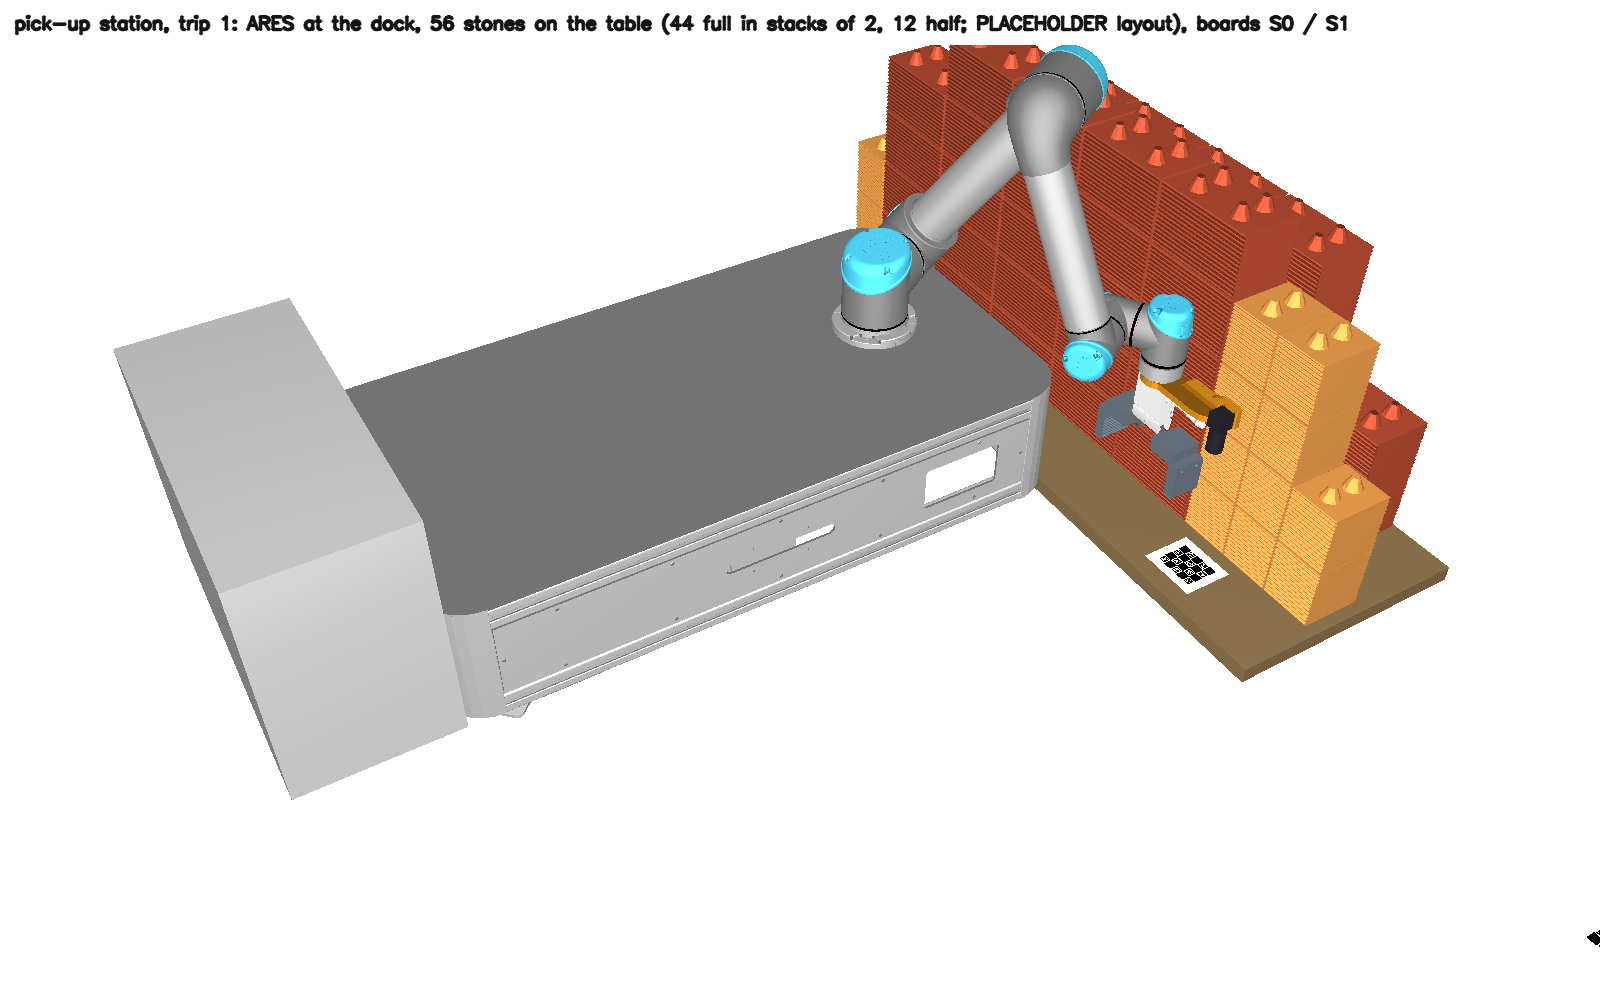
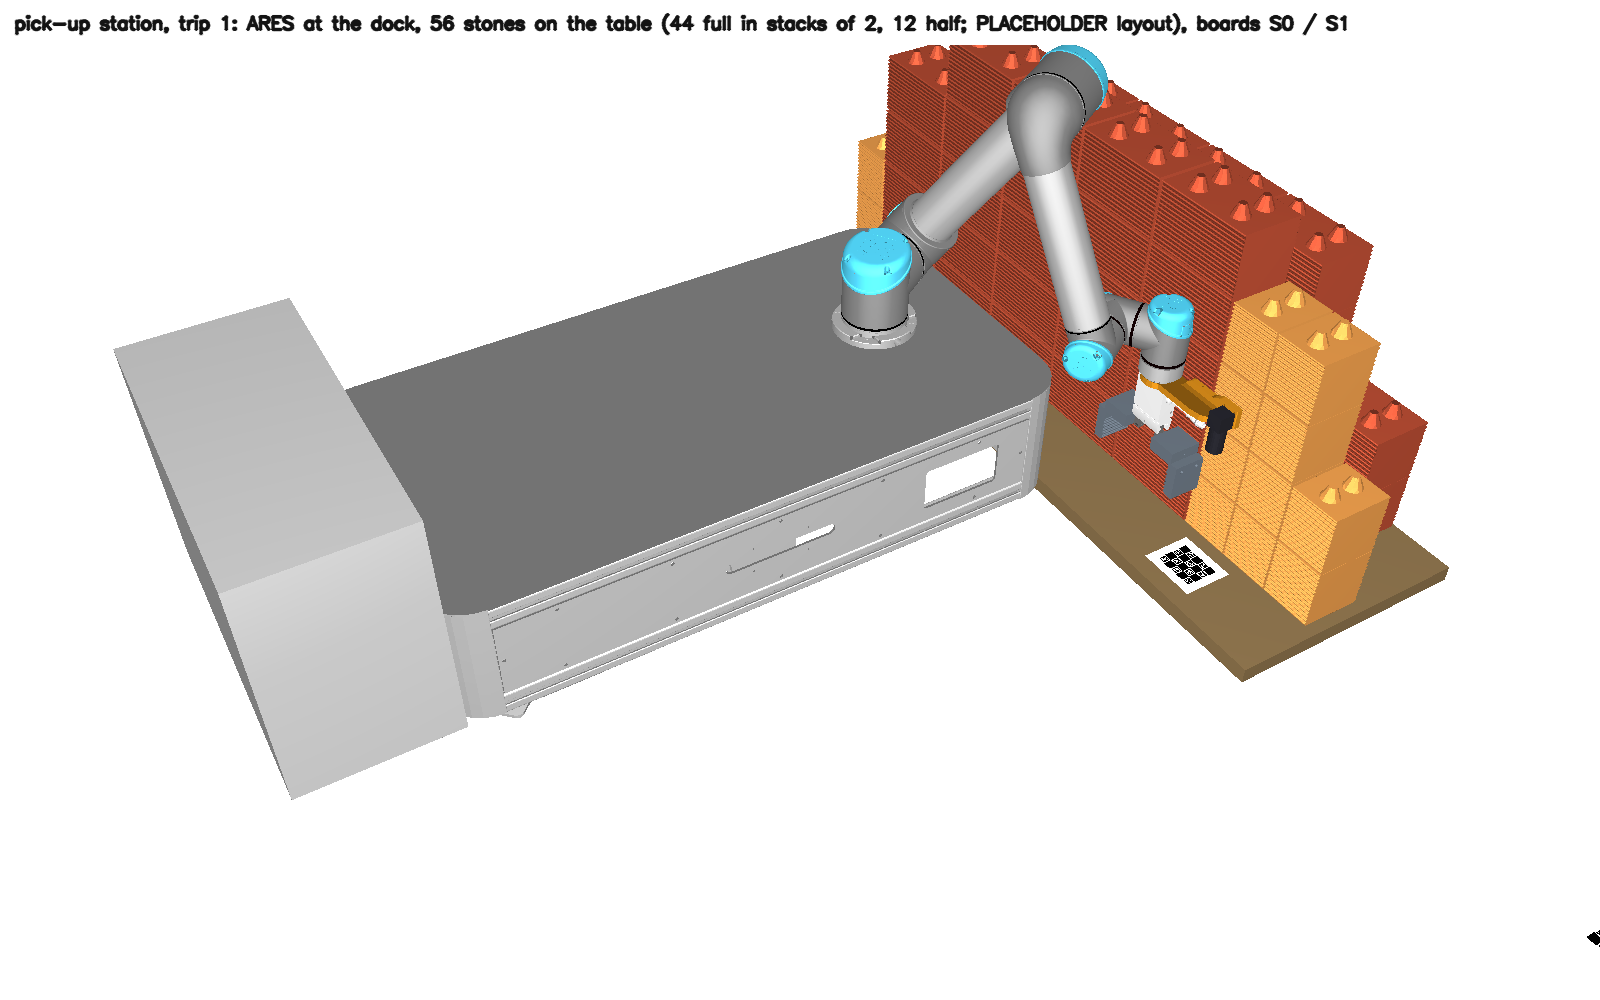
Job, stone list, plan and RoboDK run for the 5 mm MDF guides; final/ refreshed; plan track G
[wall] base_z 5: course tops 125 / 246 / 367 / 488 mm. Guarded world sims seeds 1-3: 67/67 seated, 0 violations,
max 2.58 / 2.20 / 2.06 mm. RoboDK: 67/67 + 53/53 collision-checked, 11 routes clean, 0 top-ups, 15.5 min, video.
final/: stone list, plan, report, pictures (video local only). Plan track G: the software for the full test run.

Changed region(s): [[0.5938, 0.155, 0.8438, 0.62], [0.5312, 0.062, 0.625, 0.217], [0.8438, 0.434, 0.875, 0.465]]

diff --git a/final/l_wall_plan.md b/final/l_wall_plan.md
@@ -1,6 +1,6 @@
 # C wall plan (simulation)
 
-Generated by `py.exe tools/plan_layout.py` from `config/station.toml` (+ `results/reach_table.json`, key `47bf98b2bcc2, 8722aab075b5, 57b12ab24fa9`); drawing `results/l_wall_layout.png`. Pure Python: kinematic checks and a coarse arm-vs-built-wall check of the looks (mauer.armcheck), no occlusion; the RoboDK collision run of the job is `results/l_wall_sim.md`. Values marked PLACEHOLDER / ASSUMPTION are listed at the end - every result here depends on them.
+Generated by `py.exe tools/plan_layout.py` from `config/station.toml` (+ `results/reach_table.json`, key `9fe22f9e92da, 6f36bbd7c776, 385eec34632a`); drawing `results/l_wall_layout.png`. Pure Python: kinematic checks and a coarse arm-vs-built-wall check of the looks (mauer.armcheck), no occlusion; the RoboDK collision run of the job is `results/l_wall_sim.md`. Values marked PLACEHOLDER / ASSUMPTION are listed at the end - every result here depends on them.
 
 ## Request and design
 - Samuel 2026-10-06: a small C - "one length is 2 m, then 1.5 across and 1 m back" - and keep the existing boards (no new ones): A 10 stones (2.0 m), B 7 (1.4 m; 1.52 m over the outer faces of A and C - B = 6 would give 1.32 m and one stop less), C 5 (1.0 m), C parallel to A on the far side from ARES. Before: the L of 2026-10-05 (A 12, B 6).
@@ -23,7 +23,7 @@ Stones per leg and course (full + half; odd courses: half + (n-1) full + half):
 | B | 9 | 8 + 2 | 9 | 8 + 2 | 38 |
 | C | 1 + 2 | 2 | 1 + 2 | 2 | 10 |
 
-Total 67 stones (53 full, 14 half), course top z = 124, 245, 366, 487 mm.
+Total 67 stones (53 full, 14 half), course top z = 125, 246, 367, 488 mm.
 
 ## Stops
 
@@ -115,8 +115,6 @@ tools/run_job.py data/jobs/nominal_C.json --sim --scenario realistic --seed N --
 
 | key | status | value |
 |---|---|---|
-| `[ares] controller_out_mm` | ASSUMPTION | 250.0 |
-| `[ares] controller_top_mm` | ASSUMPTION | 200.0 |
 | `[tool] tcp_z` | ASSUMPTION | 147.0 |
 | `[brick] mass_kg` | ASSUMPTION | 3.0 |
 | `[half_brick] length` | PLACEHOLDER | 100.0 |
@@ -125,9 +123,10 @@ tools/run_job.py data/jobs/nominal_C.json --sim --scenario realistic --seed N --
 | `[half_brick] pin_across` | PLACEHOLDER | 51.428 |
 | `[half_brick] pin_length` | PLACEHOLDER | 23.5 |
 | `[half_brick] mass_kg` | UNKNOWN | 0.0 |
+| `[half_brick] grasp_above_top_mm` | ASSUMPTION | 20.0 |
 | `[wall] side` | UNTAGGED | "front" |
 | `[wall] bond_offset` | UNTAGGED | 0.5 |
-| `[wall] base_z` | ASSUMPTION | 4.0 |
+| `[wall] base_z` | ASSUMPTION | 5.0 |
 | `[wall] u_from` | UNTAGGED | -900.0 |
 | `[wall] u_to` | UNTAGGED | 1800.0 |
 | `[wall] corner_gap_mm` | ASSUMPTION | 1.0 |
@@ -184,7 +183,7 @@ tools/run_job.py data/jobs/nominal_C.json --sim --scenario realistic --seed N --
 | `[pickup_station] table_size` | ASSUMPTION | [1475.0, 480.0] |
 | `[pickup_station] row_y` | ASSUMPTION | 210.0 |
 | `[pickup_station] row2_y` | ASSUMPTION | 410.0 |
-| `[pickup_station] holder_z` | ASSUMPTION | 4.0 |
+| `[pickup_station] holder_z` | ASSUMPTION | 5.0 |
 | `[pickup_station] ares_xyz` | ASSUMPTION | [737.5, -630.0, 0.0] |
 | `[pickup_station] ares_rpy_deg` | ASSUMPTION | [0.0, 0.0, 90.0] |
 | `[pickup_station] slots_xy` | UNTAGGED | [[225.0, 210.0], [430.0, 210.0], [635.0, 210.0], [840.0, ... |
@@ -201,5 +200,5 @@ tools/run_job.py data/jobs/nominal_C.json --sim --scenario realistic --seed N --
 Warnings of the job build:
 
 - magazine slots without a kinematic IK solution (dropped): ['r0y0l3', 'r0y1l3', 'r0y2l3']
-- station slots without IK somewhere within the dock tolerance (+-30 mm, +-1.5 deg) (dropped): ['s00l5', 's05l3', 's07l5', 's08l5', 's10l3', 'h00l3', 'h03l3']
-- station slots without a kinematic IK solution (dropped): ['s05l4', 's05l5', 's06l5', 's09l5', 's10l4', 's10l5', 'h00l4', 'h03l4']
+- station slots without IK somewhere within the dock tolerance (+-30 mm, +-1.5 deg) (dropped): ['s05l3', 's07l5', 's08l5', 's10l3', 'h00l3', 'h03l3']
+- station slots without a kinematic IK solution (dropped): ['s00l5', 's05l4', 's05l5', 's06l5', 's09l5', 's10l4', 's10l5', 'h00l4', 'h03l4']

diff --git a/results/l_wall_plan.md b/results/l_wall_plan.md
@@ -1,6 +1,6 @@
 # C wall plan (simulation)
 
-Generated by `py.exe tools/plan_layout.py` from `config/station.toml` (+ `results/reach_table.json`, key `47bf98b2bcc2, 8722aab075b5, 57b12ab24fa9`); drawing `results/l_wall_layout.png`. Pure Python: kinematic checks and a coarse arm-vs-built-wall check of the looks (mauer.armcheck), no occlusion; the RoboDK collision run of the job is `results/l_wall_sim.md`. Values marked PLACEHOLDER / ASSUMPTION are listed at the end - every result here depends on them.
+Generated by `py.exe tools/plan_layout.py` from `config/station.toml` (+ `results/reach_table.json`, key `9fe22f9e92da, 6f36bbd7c776, 385eec34632a`); drawing `results/l_wall_layout.png`. Pure Python: kinematic checks and a coarse arm-vs-built-wall check of the looks (mauer.armcheck), no occlusion; the RoboDK collision run of the job is `results/l_wall_sim.md`. Values marked PLACEHOLDER / ASSUMPTION are listed at the end - every result here depends on them.
 
 ## Request and design
 - Samuel 2026-10-06: a small C - "one length is 2 m, then 1.5 across and 1 m back" - and keep the existing boards (no new ones): A 10 stones (2.0 m), B 7 (1.4 m; 1.52 m over the outer faces of A and C - B = 6 would give 1.32 m and one stop less), C 5 (1.0 m), C parallel to A on the far side from ARES. Before: the L of 2026-10-05 (A 12, B 6).
@@ -23,7 +23,7 @@ Stones per leg and course (full + half; odd courses: half + (n-1) full + half):
 | B | 9 | 8 + 2 | 9 | 8 + 2 | 38 |
 | C | 1 + 2 | 2 | 1 + 2 | 2 | 10 |
 
-Total 67 stones (53 full, 14 half), course top z = 124, 245, 366, 487 mm.
+Total 67 stones (53 full, 14 half), course top z = 125, 246, 367, 488 mm.
 
 ## Stops
 
@@ -115,8 +115,6 @@ tools/run_job.py data/jobs/nominal_C.json --sim --scenario realistic --seed N --
 
 | key | status | value |
 |---|---|---|
-| `[ares] controller_out_mm` | ASSUMPTION | 250.0 |
-| `[ares] controller_top_mm` | ASSUMPTION | 200.0 |
 | `[tool] tcp_z` | ASSUMPTION | 147.0 |
 | `[brick] mass_kg` | ASSUMPTION | 3.0 |
 | `[half_brick] length` | PLACEHOLDER | 100.0 |
@@ -125,9 +123,10 @@ tools/run_job.py data/jobs/nominal_C.json --sim --scenario realistic --seed N --
 | `[half_brick] pin_across` | PLACEHOLDER | 51.428 |
 | `[half_brick] pin_length` | PLACEHOLDER | 23.5 |
 | `[half_brick] mass_kg` | UNKNOWN | 0.0 |
+| `[half_brick] grasp_above_top_mm` | ASSUMPTION | 20.0 |
 | `[wall] side` | UNTAGGED | "front" |
 | `[wall] bond_offset` | UNTAGGED | 0.5 |
-| `[wall] base_z` | ASSUMPTION | 4.0 |
+| `[wall] base_z` | ASSUMPTION | 5.0 |
 | `[wall] u_from` | UNTAGGED | -900.0 |
 | `[wall] u_to` | UNTAGGED | 1800.0 |
 | `[wall] corner_gap_mm` | ASSUMPTION | 1.0 |
@@ -184,7 +183,7 @@ tools/run_job.py data/jobs/nominal_C.json --sim --scenario realistic --seed N --
 | `[pickup_station] table_size` | ASSUMPTION | [1475.0, 480.0] |
 | `[pickup_station] row_y` | ASSUMPTION | 210.0 |
 | `[pickup_station] row2_y` | ASSUMPTION | 410.0 |
-| `[pickup_station] holder_z` | ASSUMPTION | 4.0 |
+| `[pickup_station] holder_z` | ASSUMPTION | 5.0 |
 | `[pickup_station] ares_xyz` | ASSUMPTION | [737.5, -630.0, 0.0] |
 | `[pickup_station] ares_rpy_deg` | ASSUMPTION | [0.0, 0.0, 90.0] |
 | `[pickup_station] slots_xy` | UNTAGGED | [[225.0, 210.0], [430.0, 210.0], [635.0, 210.0], [840.0, ... |
@@ -201,5 +200,5 @@ tools/run_job.py data/jobs/nominal_C.json --sim --scenario realistic --seed N --
 Warnings of the job build:
 
 - magazine slots without a kinematic IK solution (dropped): ['r0y0l3', 'r0y1l3', 'r0y2l3']
-- station slots without IK somewhere within the dock tolerance (+-30 mm, +-1.5 deg) (dropped): ['s00l5', 's05l3', 's07l5', 's08l5', 's10l3', 'h00l3', 'h03l3']
-- station slots without a kinematic IK solution (dropped): ['s05l4', 's05l5', 's06l5', 's09l5', 's10l4', 's10l5', 'h00l4', 'h03l4']
+- station slots without IK somewhere within the dock tolerance (+-30 mm, +-1.5 deg) (dropped): ['s05l3', 's07l5', 's08l5', 's10l3', 'h00l3', 'h03l3']
+- station slots without a kinematic IK solution (dropped): ['s00l5', 's05l4', 's05l5', 's06l5', 's09l5', 's10l4', 's10l5', 'h00l4', 'h03l4']

diff --git a/final/l_wall_sim.md b/final/l_wall_sim.md
@@ -1,6 +1,6 @@
 # C wall - RoboDK collision simulation
 
-Generated by `py.exe robodk/simulate.py --animate --video l_wall_sim.mp4` (2026-10-09 14:46, run time 15.9 min, own RoboDK instance 6.0.0.26652, OpenCV 4.14.0). Station saved as `robodk/ARES_UR5_Mauer_L.rdk` (not versioned). **Simulation results: they depend on the PLACEHOLDER / ASSUMPTION inputs listed below.**
+Generated by `py.exe robodk/simulate.py --animate --video l_wall_sim.mp4` (2026-10-14 12:42, run time 15.5 min, own RoboDK instance 6.0.0.26652, OpenCV 4.14.0). Station saved as `robodk/ARES_UR5_Mauer_L.rdk` (not versioned). **Simulation results: they depend on the PLACEHOLDER / ASSUMPTION inputs listed below.**
 
 ## Summary
 
@@ -14,7 +14,7 @@ Generated by `py.exe robodk/simulate.py --animate --video l_wall_sim.mp4` (2026-
 
 ## Inputs
 
-- Job: `tools/make_job.py` build_nominal (config + `robodk/wallplan.py` plan_legs + `results/reach_table.json` key `47bf98b2bcc2, 8722aab075b5, 57b12ab24fa9`), 4 stops, 67 stones (14 half), magazine 18 slots, 4 reloads; plan = `results/l_wall_plan.md`.
+- Job: `tools/make_job.py` build_nominal (config + `robodk/wallplan.py` plan_legs + `results/reach_table.json` key `9fe22f9e92da, 6f36bbd7c776, 385eec34632a`), 4 stops, 67 stones (14 half), magazine 18 slots, 4 reloads; plan = `results/l_wall_plan.md`.
 - Pick-up station (`[pickup_station]`, on the floor): 56 usable holders - 44 full stones in stacks of up to 5, 12 half stones; dock (-1700.0, 840.0) mm, 90.00 deg (wall frame), ARES front 70 mm from the station area (floor); boards S0, S1 in their windows on the floor. The station starts full; the operator tops it up before a trip when it would bring fewer stones than a full one (`mauer.job.reload_short`, as in the sequencer).
 - Leg A: 5 stones in course 0, frame (0, 0) mm, 0 deg in the wall frame; built on ARES's right side at 580 mm.
 - Leg B: 9 stones in course 0, frame (1063, -60) mm, 90 deg in the wall frame; built on ARES's front side at 840 mm.
@@ -39,7 +39,7 @@ Depends on (non-CONFIRMED config values, from the job):
 | `[half_brick] grasp_above_top_mm` | ASSUMPTION | 20.0 |
 | `[wall] side` | UNTAGGED | "front" |
 | `[wall] bond_offset` | UNTAGGED | 0.5 |
-| `[wall] base_z` | ASSUMPTION | 4.0 |
+| `[wall] base_z` | ASSUMPTION | 5.0 |
 | `[wall] u_from` | UNTAGGED | -900.0 |
 | `[wall] u_to` | UNTAGGED | 1800.0 |
 | `[wall] corner_gap_mm` | ASSUMPTION | 1.0 |
@@ -96,7 +96,7 @@ Depends on (non-CONFIRMED config values, from the job):
 | `[pickup_station] table_size` | ASSUMPTION | [1475.0, 480.0] |
 | `[pickup_station] row_y` | ASSUMPTION | 210.0 |
 | `[pickup_station] row2_y` | ASSUMPTION | 410.0 |
-| `[pickup_station] holder_z` | ASSUMPTION | 4.0 |
+| `[pickup_station] holder_z` | ASSUMPTION | 5.0 |
 | `[pickup_station] ares_xyz` | ASSUMPTION | [737.5, -630.0, 0.0] |
 | `[pickup_station] ares_rpy_deg` | ASSUMPTION | [0.0, 0.0, 90.0] |
 | `[pickup_station] slots_xy` | UNTAGGED | [[225.0, 210.0], [430.0, 210.0], [635.0, 210.0], [840.0, 210.0], [1045.0, 210.0], [225.0, 410.0], [430.0, 410.0], [635.0, 410.0], [840.0, 410.0], [1045.0, 410.0], [1250.0, 410.0]] |
@@ -128,7 +128,7 @@ Depends on (non-CONFIRMED config values, from the job):
 
 No failures: every stone was picked from its planned magazine slot and placed with a collision-checked motion.
 
-Collision tests: 2105 (510 poses / moves refused by the tool-vs-arm model, mauer.armcheck.self_clearance >= 15 mm); motion planning + execution 10.3 min.
+Collision tests: 2063 (508 poses / moves refused by the tool-vs-arm model, mauer.armcheck.self_clearance >= 15 mm); motion planning + execution 10.1 min.
 
 ## Station trips (ARES at the dock, collision-checked station -> magazine moves)
 

diff --git a/results/l_wall_sim.md b/results/l_wall_sim.md
@@ -1,6 +1,6 @@
 # C wall - RoboDK collision simulation
 
-Generated by `py.exe robodk/simulate.py --animate --video l_wall_sim.mp4` (2026-10-09 14:46, run time 15.9 min, own RoboDK instance 6.0.0.26652, OpenCV 4.14.0). Station saved as `robodk/ARES_UR5_Mauer_L.rdk` (not versioned). **Simulation results: they depend on the PLACEHOLDER / ASSUMPTION inputs listed below.**
+Generated by `py.exe robodk/simulate.py --animate --video l_wall_sim.mp4` (2026-10-14 12:42, run time 15.5 min, own RoboDK instance 6.0.0.26652, OpenCV 4.14.0). Station saved as `robodk/ARES_UR5_Mauer_L.rdk` (not versioned). **Simulation results: they depend on the PLACEHOLDER / ASSUMPTION inputs listed below.**
 
 ## Summary
 
@@ -14,7 +14,7 @@ Generated by `py.exe robodk/simulate.py --animate --video l_wall_sim.mp4` (2026-
 
 ## Inputs
 
-- Job: `tools/make_job.py` build_nominal (config + `robodk/wallplan.py` plan_legs + `results/reach_table.json` key `47bf98b2bcc2, 8722aab075b5, 57b12ab24fa9`), 4 stops, 67 stones (14 half), magazine 18 slots, 4 reloads; plan = `results/l_wall_plan.md`.
+- Job: `tools/make_job.py` build_nominal (config + `robodk/wallplan.py` plan_legs + `results/reach_table.json` key `9fe22f9e92da, 6f36bbd7c776, 385eec34632a`), 4 stops, 67 stones (14 half), magazine 18 slots, 4 reloads; plan = `results/l_wall_plan.md`.
 - Pick-up station (`[pickup_station]`, on the floor): 56 usable holders - 44 full stones in stacks of up to 5, 12 half stones; dock (-1700.0, 840.0) mm, 90.00 deg (wall frame), ARES front 70 mm from the station area (floor); boards S0, S1 in their windows on the floor. The station starts full; the operator tops it up before a trip when it would bring fewer stones than a full one (`mauer.job.reload_short`, as in the sequencer).
 - Leg A: 5 stones in course 0, frame (0, 0) mm, 0 deg in the wall frame; built on ARES's right side at 580 mm.
 - Leg B: 9 stones in course 0, frame (1063, -60) mm, 90 deg in the wall frame; built on ARES's front side at 840 mm.
@@ -39,7 +39,7 @@ Depends on (non-CONFIRMED config values, from the job):
 | `[half_brick] grasp_above_top_mm` | ASSUMPTION | 20.0 |
 | `[wall] side` | UNTAGGED | "front" |
 | `[wall] bond_offset` | UNTAGGED | 0.5 |
-| `[wall] base_z` | ASSUMPTION | 4.0 |
+| `[wall] base_z` | ASSUMPTION | 5.0 |
 | `[wall] u_from` | UNTAGGED | -900.0 |
 | `[wall] u_to` | UNTAGGED | 1800.0 |
 | `[wall] corner_gap_mm` | ASSUMPTION | 1.0 |
@@ -96,7 +96,7 @@ Depends on (non-CONFIRMED config values, from the job):
 | `[pickup_station] table_size` | ASSUMPTION | [1475.0, 480.0] |
 | `[pickup_station] row_y` | ASSUMPTION | 210.0 |
 | `[pickup_station] row2_y` | ASSUMPTION | 410.0 |
-| `[pickup_station] holder_z` | ASSUMPTION | 4.0 |
+| `[pickup_station] holder_z` | ASSUMPTION | 5.0 |
 | `[pickup_station] ares_xyz` | ASSUMPTION | [737.5, -630.0, 0.0] |
 | `[pickup_station] ares_rpy_deg` | ASSUMPTION | [0.0, 0.0, 90.0] |
 | `[pickup_station] slots_xy` | UNTAGGED | [[225.0, 210.0], [430.0, 210.0], [635.0, 210.0], [840.0, 210.0], [1045.0, 210.0], [225.0, 410.0], [430.0, 410.0], [635.0, 410.0], [840.0, 410.0], [1045.0, 410.0], [1250.0, 410.0]] |
@@ -128,7 +128,7 @@ Depends on (non-CONFIRMED config values, from the job):
 
 No failures: every stone was picked from its planned magazine slot and placed with a collision-checked motion.
 
-Collision tests: 2105 (510 poses / moves refused by the tool-vs-arm model, mauer.armcheck.self_clearance >= 15 mm); motion planning + execution 10.3 min.
+Collision tests: 2063 (508 poses / moves refused by the tool-vs-arm model, mauer.armcheck.self_clearance >= 15 mm); motion planning + execution 10.1 min.
 
 ## Station trips (ARES at the dock, collision-checked station -> magazine moves)
 

diff --git a/docs/PLAN_2026-10-07_realtest.md b/docs/PLAN_2026-10-07_realtest.md
@@ -186,3 +186,28 @@ NOT merged while the real test runs in main.
       [deck] / [magtest] changes; results/l_wall_sim.md), rerun `py.exe robodk/simulate.py --animate` IN MAIN for the
       RoboDK stamp (the worktree's stamp has no git commit: Windows git cannot follow the WSL worktree path), then
       the guarded sims; the 7 stale tests of the old main C (wf_05321a78-cff) are still red
+
+
+## Track G (Samuel 2026-10-14): software for the full test run (wall stones, board measurement, ARES moves)
+
+Samuel: "erledige die Software parts" of the readiness check (preflight_real on the C job: ARES moves blocked by
+`frame_x_points_to = "rear"`, ADS 48898, red route tests, station2 merge / job for 5 mm MDF). Done in `station2`
+(the merge into main was refused by the permission check - Samuel merges after looking at it).
+- [x] G1 ARES moves with the UR at the vehicle rear: `mauer.backends.AdsAres(ads, rear=config.ares_rear(cfg))` sends a
+      body-frame translation (dx, dy) as (-dx, -dy) to the PLC, rotations unchanged, and returns the outcome in this
+      repo's frame (odometry via `mauer.ares.ads.odom_in_ares_frame`: (x, y, theta) -> (-x, -y, theta)); HMI live pose
+      and Apply odometry compose the odometry the same way (`hmi.core.sources.compose_odometry(..., rear)`); the step
+      confirmation names the vehicle direction (`vehicle_words`); preflight_real no longer refuses "rear", only an
+      unknown value (tests/test_ares_frame.py)
+- [x] G2 ADS: `AresAds` skipped the connection on Windows when a direct TCP connect to 192.168.1.10:48898 failed -
+      but on Windows pyads goes through the local TwinCAT router (TcAdsDll, the route of MA amr_hmi SETUP.md 4), like
+      amr_hmi, which never probes and drove ARES on 2026-10-09. The pre-check now runs only where pyads talks to the
+      PLC directly (not on Windows; `[ares_ads] tcp_probe` overrides). NOT verified on ARES yet
+- [x] G3 stale tests of the old layouts: route leg lists (two-row station: 5 + 6 legs), last leg change A -> C (built
+      B -> A -> C), no station top-up for the straight job (56 holders), legs [5, 9, 5]
+- [x] G4 job / stone list / plan for the 5 mm MDF guides ([wall] base_z 5: course tops 125 / 246 / 367 / 488 mm);
+      guarded world sims (SimWorld guard=True, realistic, camera loop) seeds 1-3: 67/67 seated, 0 violations, max
+      2.58 / 2.20 / 2.06 mm, 50 / 52 / 51 ARES moves, 4 station trips each
+      RoboDK (`simulate.py --animate --video`, 15.5 min): 67/67 + 53/53 collision-checked, 11 routes clean, 0 top-ups;
+      final/ refreshed (stone list, plan, report, pictures, video). The RoboDK stamp of the worktree has no git commit:
+      after `git merge station2` in main rerun `py.exe robodk/simulate.py --animate` there (preflight_real asks for it)

diff --git a/final/README.md b/final/README.md
@@ -61,8 +61,9 @@ Layouts, und das Layout selbst hat sich seitdem nicht geändert.
 
 ## Geprüft
 
-- RoboDK (`robodk/simulate.py --animate --video`, mit seitlichem Setzen und Halbstein-Griff): 67/67 Steine und 53/53
-  Umlagerungen Station → Magazin mit Kollisionsprüfung, 11 ARES-Fahrten ohne Kollision, 0 Mal Nachlegen.
+- RoboDK (`robodk/simulate.py --animate --video`, mit seitlichem Setzen und Halbstein-Griff; 2026-10-14 mit den
+  5-mm-Führungen, Lagenoberkanten 125 / 246 / 367 / 488 mm): 67/67 Steine und 53/53 Umlagerungen Station → Magazin
+  mit Kollisionsprüfung, 11 ARES-Fahrten ohne Kollision, 0 Mal Nachlegen.
 - Weltsimulation mit Motion Guard (wie die HMI-SIM; realistische Fahr-, Andock- und Messfehler), Seeds 1 – 3:
   je 67/67 Steine gesetzt, keine Verletzung, maximal 2,1 – 2,6 mm Abweichung, 50 – 52 ARES-Fahrten.
 
